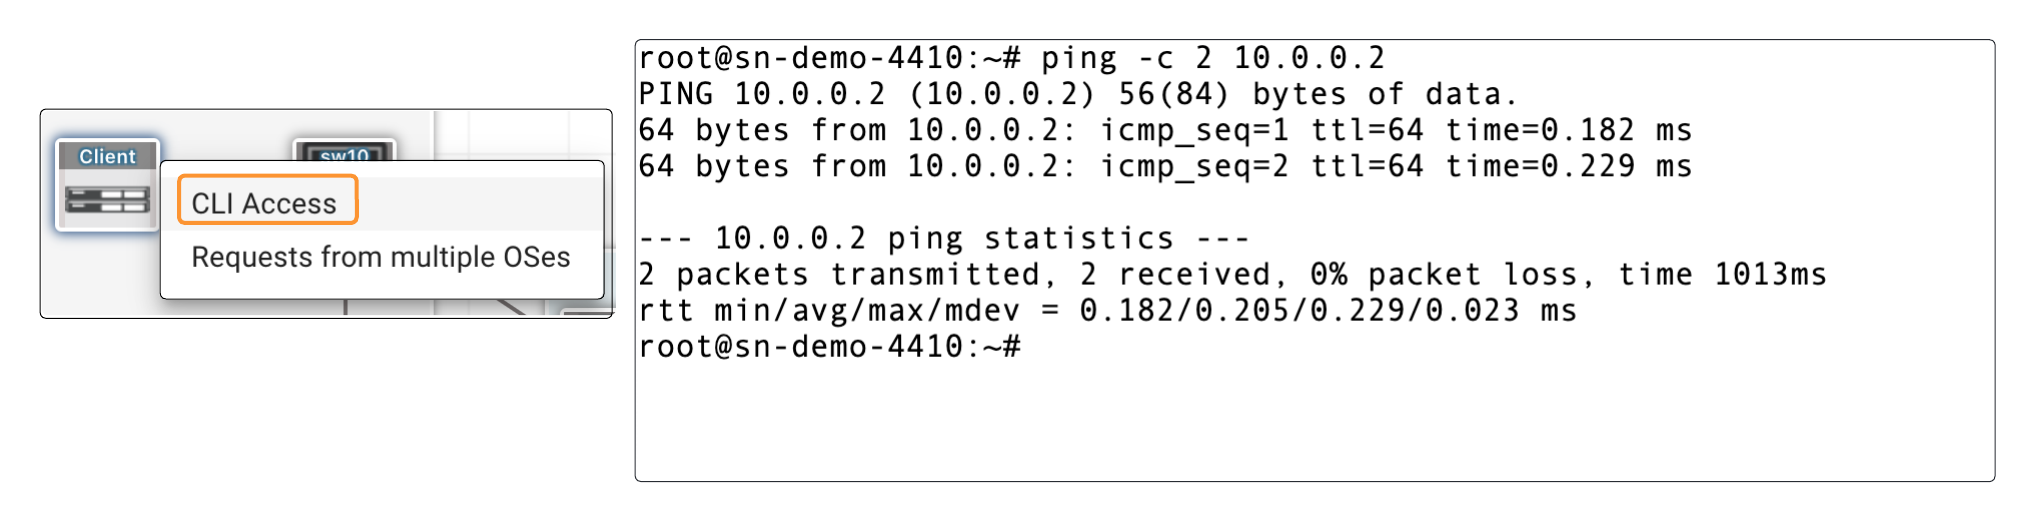
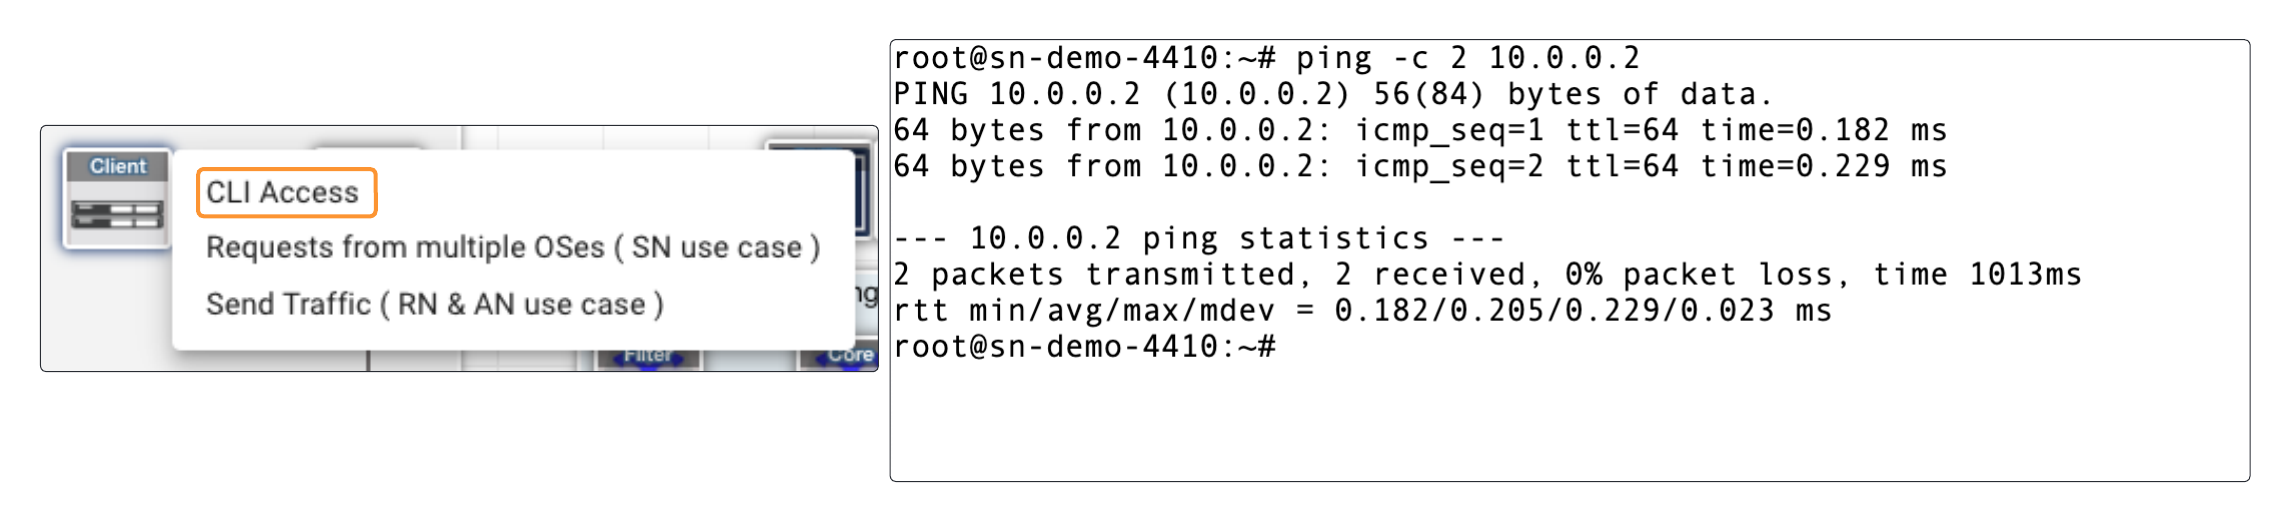
updating lab guides for new images

Changed region(s): [[0.0, 0.0613, 0.9287, 0.7356], [0.3096, 0.9195, 0.3715, 0.9502]]

diff --git a/Lab1/Lab1.md b/Lab1/Lab1.md
@@ -6,9 +6,9 @@ This Lab will assist you in the configuration and setup of a DMF Fabric, Policie
 
 ## Access the Lab
 
-The interactive portions of this lab are highlighed in the image below. To view the available options displayed click one of the 3 device. 
+The image displayed in conjunction with the lab guides is the interactive portions of this lab. The portions of the lab that are interactive are highlighed in the image below. To view the available options displayed click one of the 3 device. 
 
-![topology](media/SN_Topology.png)
+![Topology](media/All_in_one_Topology.png)
 
 - **Controller Node**
   - **Controller GUI (Interactive GUI)** - This is where the majority of the Lab will be spent
@@ -20,20 +20,21 @@ The interactive portions of this lab are highlighed in the image below. To view 
   - **Realtime Capture** - Displays a simple packet capture without full details
   - **Realitime Capture** (verbose) - More detailed capture of packet details
   - **Packet Dump** - full packet capture 
+- **Analytics Node** - Left clicking on the Analytics node icon will open a new tab to access the Analytics Node UI.
 
 Selecting any of those options will open a new tab for access to the selected User Interface
 
 ## Controller Login
 Select the Controller GUI
 
-![login](media/cntrl_login.png)
-
+<!--Need new login page -->
+![Login](media/cntrl_login.png)
 Username: **admin**
 
-Password: **sn_labs@2024**
+Password: **anrn_labs@2024**
 
 ---
-# Build the DMF Fabric
+# Building the DMF Fabric
 
 ## Device Roles
 Although not a requirement in a DMF design, there are typically 3 roles that network devices have. A single device could accomplish all 3 roles in small enough deployment.
@@ -62,17 +63,17 @@ After saving the configuration the switch should be displayed in a table. If the
 ![fabric_verify](media/fab_verification.png)
 
 ## Add Core and Delivery Switches
-**Under Fabric > Switches, repeat the same steps as the filter switch to add**
+**Under Fabric > Switches, repeat the same steps as the filter switch to add the core and delivery switches**
 1. **Core-Switch 00:00:00:00:00:0B**
 2. **Delivery-Switch 00:00:00:00:00:0C**
 
 ![fabric_4](media/fab_3.png)![fabric_5](media/fab_4.png)
 
-_Note: To highlight the scale-out fabric design, the topology used in this module depicts Filter Ports to be configured on the Filter Switch, Delivery Ports to be configured on the Delivery Switch. This is not a design requirement. A leaf switch of the fabric can be configured with a mix of filter & delivery ports_
+
 
 ## Review Fabric Topology 
 
-Leaf switches (filter & delivery) are not directly connected to each other. On the other hand, a spine switch (core) is a switch that is physically connected to every leaf switch, and core switches do not connect to each other.
+Leaf switches (filter & delivery) are not directly connected to each other. On the other hand, a spine switch (core) is a switch that is physically connected to every leaf switch, and if there were multiple core switches, they would not connect to each other.
 
 Click **Fabric** to show a graphical summary of your fabric
 
@@ -85,7 +86,7 @@ Select any of the 3 switches displayed in the **Fabric Topology** to view additi
 ## Assign Filter Role to Interfaces
 Now that we added the switches to the DMF controller, we now need to configure the interfaces on those switches and assign them a role.
 
-_In this lab’s topology ethernet2 and ethernet3 of the Filter-Switch are SPAN ports connected to the Production network_
+_In this lab’s topology ethernet2 and ethernet3 of the Filter-Switch are destination SPAN ports connected to the Production network_
 
 ## FILTER1 Interface
 1.  Navigate to  **Monitoring > Interfaces**
@@ -115,6 +116,7 @@ _In this lab’s topology ethernet2 and ethernet3 of the Filter-Switch are SPAN 
 ![FILTER2](media/f2_int_1.png)
 ![FILTER2](media/f2_int_2.png)
 
+_Note: To highlight the scale-out fabric design, the topology used in this module depicts Filter Ports to be configured on the Filter Switch, Delivery Ports to be configured on the Delivery Switch. This is not a design requirement. A leaf switch of the fabric can be configured with a mix of filter & delivery ports_
 ## Delivery Interface
 
 Ethernet2 on the Delivery-Switch is physically connected to a Wireshark tool, 
@@ -217,8 +219,9 @@ _Note: If you kept the windows for both Wireshark and the Client CLI open, you c
 3. Click on the **Client** icon and select **CLI**
    * Run **ping -c 2 10.0.0.2**
 4. Return to the Wireshark **Realtime Capture**
-
+<!-- New Policy test 1 page --->
 ![pol_test_1](media/pol_test_1.png)
+
 ![pol_test_2](media/pol_test_2.png)
 ![pol_test_3](media/pol_test_icmp.png)
 
